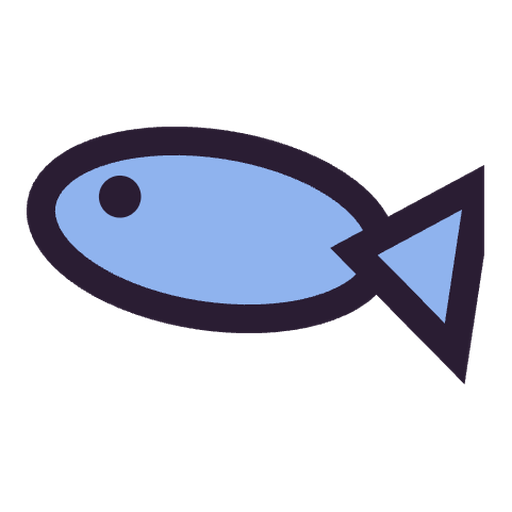
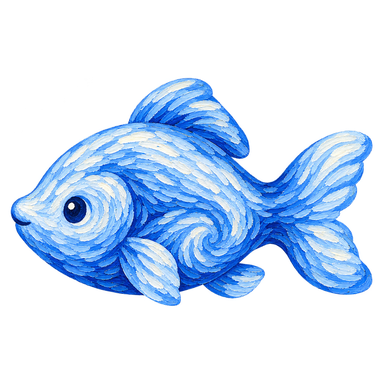
1.0.242: 10판 그림 찾기 GPT 별밤 그림·물건 3종

diff --git a/src/arthunt.js b/src/arthunt.js
@@ -20,9 +20,9 @@ const W = 640, H = 400;
 // to sink it in), how far a tap may miss (r)
 const ART = 'art/museum/arthunt/', BG = 'bg.jpg';
 const THINGS = [
-  { id: 'key', name: '열쇠', src: 'key.png', x: 512, y: 236, size: 48, rot: -.45, alpha: .9, blend: 'source-over', r: 40 },
-  { id: 'fish', name: '생선', src: 'fish.png', x: 236, y: 112, size: 52, rot: .15, alpha: .78, blend: 'source-over', r: 40 },
-  { id: 'inky', name: '먹물이', src: 'inky.png', x: 64, y: 236, size: 34, rot: 0, alpha: .95, blend: 'source-over', r: 38 },
+  { id: 'key', name: '열쇠', src: 'key.png', x: 480, y: 80, size: 25, rot: -.9, alpha: .82, blend: 'source-over', r: 34 },
+  { id: 'fish', name: '생선', src: 'fish.png', x: 322, y: 110, size: 38, rot: .55, alpha: .72, blend: 'source-over', r: 36 },
+  { id: 'inky', name: '먹물이', src: 'inky.png', x: 98, y: 292, size: 24, rot: 0, alpha: .92, blend: 'source-over', r: 32 },
 ];
 const IMG = new Map();
 const load = src => IMG.get(src) || IMG.set(src, new Promise(res => { const im = new Image(); im.decoding = 'async'; im.onload = () => res(im); im.onerror = () => res(null); im.src = ART + src; })).get(src);

diff --git a/src/build.js b/src/build.js
@@ -1,7 +1,7 @@
 // What this build is (Discovery 26-4, 10/19). The round wants the app's version name visible in the game; keep `version`/`code`
 // equal to the APK/AAB's versionName/versionCode and raise both before every new upload. The app zip script turns `qa` on for
 // the Debug APK only, so QA's shortcuts (리뷰 모드, 놀이 모음, 새 아트, 판 방식, 새 경제) stay out of the store build.
-export const BUILD = { version: '1.0.241', code: 201, qa: false };
+export const BUILD = { version: '1.0.242', code: 202, qa: false };
 export const VERSION_LABEL = `v${BUILD.version} (${BUILD.code})`;
 // the Android app (PlayForge WebView) serves the game from this host; everything else is the web or artifact build
 export const IN_APP = location.hostname === 'appassets.androidplatform.net';
